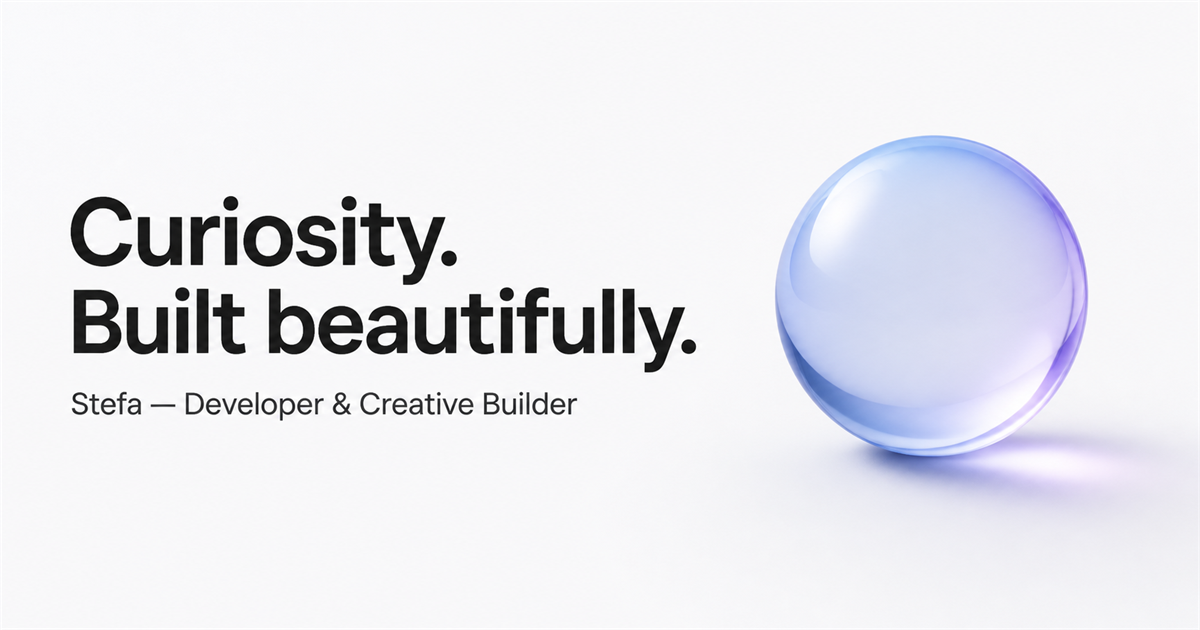
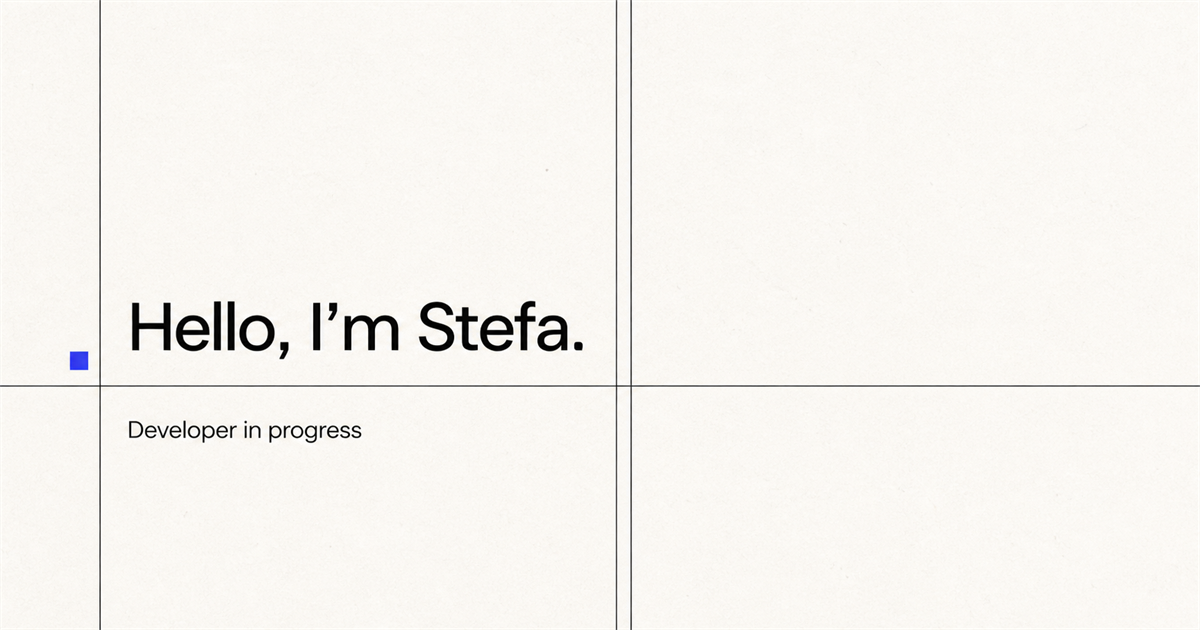
Make portfolio more personal and editorial

Changed region(s): [[0.0, 0.2111, 1.0, 0.8143], [0.0617, 0.3016, 0.4008, 0.4524]]

diff --git a/app/globals.css b/app/globals.css
@@ -1,38 +1,23 @@
 @import 'tailwindcss';
 
-:root { --black:#1d1d1f; --muted:#6e6e73; --blue:#0071e3; --surface:#f5f5f7; --white:#fff; }
+:root { --ink:#171717; --muted:#686868; --line:#d8d8d8; --paper:#f7f7f5; --accent:#174ea6; }
 * { box-sizing:border-box; }
 html { scroll-behavior:smooth; }
-body { margin:0; background:var(--white); color:var(--black); font-family:var(--font-geist-sans),-apple-system,BlinkMacSystemFont,"Segoe UI",sans-serif; -webkit-font-smoothing:antialiased; }
+body { margin:0; background:#fff; color:var(--ink); font-family:Arial,Helvetica,sans-serif; -webkit-font-smoothing:antialiased; }
 a { color:inherit; text-decoration:none; }
-.shell { width:min(1120px,calc(100% - 48px)); margin-inline:auto; }
-.nav { position:sticky; top:0; z-index:20; width:100%; height:52px; padding-inline:max(24px,calc((100% - 1120px)/2)); display:flex; align-items:center; justify-content:space-between; background:rgba(255,255,255,.78); border-bottom:1px solid rgba(0,0,0,.06); backdrop-filter:saturate(180%) blur(20px); }
-.wordmark { font-size:17px; font-weight:650; letter-spacing:-.025em; }
-.navLinks { display:flex; align-items:center; gap:30px; font-size:12px; color:#3a3a3c; }
-.navLinks a { transition:color .2s; }.navLinks a:hover { color:var(--blue); }
-.navCta { padding:8px 15px; border-radius:999px; background:var(--blue); color:white!important; font-weight:600; }
-.hero { min-height:820px; padding:112px 0 84px; text-align:center; position:relative; overflow:hidden; display:flex; flex-direction:column; align-items:center; }
-.eyebrow,.sectionLabel { font-size:12px; font-weight:650; letter-spacing:.02em; color:var(--blue); }
-.eyebrow { display:flex; align-items:center; gap:8px; padding:7px 12px; border-radius:999px; background:#eaf4ff; }
-.eyebrow span { width:6px; height:6px; border-radius:50%; background:#34c759; box-shadow:0 0 0 3px rgba(52,199,89,.16); }
-.hero h1 { position:relative; z-index:2; max-width:900px; margin:26px 0 24px; font-size:clamp(68px,8.3vw,108px); line-height:.94; letter-spacing:-.075em; font-weight:700; }
-.hero h1 em,.contact h2 em { font:inherit; background:linear-gradient(90deg,#0071e3 5%,#5e5ce6 48%,#bf5af2); -webkit-background-clip:text; background-clip:text; color:transparent; }
-.heroBottom { position:relative; z-index:2; display:flex; flex-direction:column; align-items:center; gap:28px; }
-.heroBottom p { max-width:630px; margin:0; font-size:21px; line-height:1.45; color:var(--muted); letter-spacing:-.018em; }
-.roundLink { display:inline-flex; align-items:center; gap:8px; padding:12px 20px; border-radius:999px; background:var(--blue); color:white; font-size:15px; font-weight:600; box-shadow:0 7px 20px rgba(0,113,227,.2); transition:transform .2s,box-shadow .2s; }
-.roundLink:hover { transform:translateY(-2px); box-shadow:0 10px 26px rgba(0,113,227,.28); }
-.orb { position:absolute; border-radius:50%; filter:blur(2px); pointer-events:none; }
-.orbOne { width:420px; height:420px; right:-120px; bottom:-150px; opacity:.45; background:radial-gradient(circle at 30% 25%,#fff 0,#8bc5ff 28%,#6c63ff 60%,#d54cff 100%); box-shadow:inset -45px -45px 90px rgba(30,30,80,.25),0 35px 90px rgba(72,80,255,.22); }
-.orbTwo { width:180px; height:180px; left:-70px; top:250px; opacity:.26; background:linear-gradient(145deg,#60efff,#0061ff); filter:blur(12px); }
-.about { background:var(--surface); width:100%; max-width:none; padding:128px max(24px,calc((100% - 1120px)/2)); }
-.sectionLabel { margin:0 0 24px; }.aboutGrid { display:grid; grid-template-columns:1.05fr .95fr; gap:100px; align-items:start; }
-.about h2,.sectionHead h2 { margin:0; font-size:clamp(44px,5vw,68px); line-height:1.04; letter-spacing:-.055em; font-weight:680; }
-.aboutCopy { max-width:500px; }.aboutCopy>p { margin:0 0 20px; color:var(--muted); font-size:18px; line-height:1.58; letter-spacing:-.016em; }
-.skills { display:flex; flex-wrap:wrap; gap:9px; margin-top:34px; }.skills span,.tags span { padding:8px 13px; border-radius:999px; background:rgba(255,255,255,.92); color:#515154; font-size:12px; font-weight:550; box-shadow:inset 0 0 0 1px rgba(0,0,0,.055); }
-.work { padding:132px 0; }.sectionHead { display:flex; justify-content:space-between; align-items:flex-end; margin-bottom:52px; }.sectionHead>p { max-width:360px; margin:0 0 5px; color:var(--muted); font-size:16px; line-height:1.55; letter-spacing:-.012em; }
-.projectGrid { display:grid; grid-template-columns:repeat(3,1fr); gap:18px; }.project { min-height:430px; padding:30px; border-radius:28px; display:flex; flex-direction:column; justify-content:space-between; overflow:hidden; background:linear-gradient(150deg,#f8f8fa,#ececf0); box-shadow:0 1px 2px rgba(0,0,0,.03),0 10px 35px rgba(0,0,0,.055); transition:transform .28s ease,box-shadow .28s ease; }
-.project:nth-child(2) { color:white; background:linear-gradient(150deg,#1f2024,#050506); }.project:nth-child(2) p { color:#b4b4ba; }.project:nth-child(2) .tags span { color:#eee; background:rgba(255,255,255,.11); box-shadow:inset 0 0 0 1px rgba(255,255,255,.08); }.project:nth-child(3) { background:linear-gradient(145deg,#dff2ff,#dcd6ff 58%,#f4d8f5); }
-.project:hover { transform:translateY(-6px) scale(1.008); box-shadow:0 18px 48px rgba(0,0,0,.1); }.projectTop { display:flex; justify-content:space-between; color:inherit; opacity:.62; font-size:12px; font-weight:600; }.arrow { font-size:21px; }.project h3 { margin:0 0 12px; font-size:29px; line-height:1.05; letter-spacing:-.045em; }.project p { margin:0 0 22px; color:var(--muted); line-height:1.5; font-size:15px; }.tags { display:flex; flex-wrap:wrap; gap:7px; }
-.contact { background:#000; color:#f5f5f7; }.contactInner { min-height:680px; padding:112px 0 38px; display:flex; flex-direction:column; }.sectionLabel.light { color:#2997ff; }.contact h2 { margin:14px 0 70px; max-width:950px; font-size:clamp(62px,8.5vw,108px); line-height:.94; letter-spacing:-.07em; font-weight:700; }.emailLink { display:flex; justify-content:space-between; padding:0 0 18px; border-bottom:1px solid #333336; font-size:clamp(23px,3vw,34px); color:#f5f5f7; transition:color .2s; }.emailLink:hover { color:#2997ff; }.contact footer { margin-top:auto; padding-top:72px; display:flex; justify-content:space-between; color:#86868b; font-size:12px; }
-@media (max-width:760px) { .shell{width:min(100% - 32px,1120px)} .nav{padding-inline:16px}.navLinks>a:not(.navCta){display:none}.hero{min-height:720px;padding:92px 0 64px}.hero h1{font-size:clamp(58px,18vw,82px)}.heroBottom p{font-size:18px}.orbOne{width:280px;height:280px;right:-130px}.orbTwo{width:130px;height:130px;left:-70px}.about{padding:90px 16px}.aboutGrid{grid-template-columns:1fr;gap:42px}.work{padding:92px 0}.sectionHead{display:block}.sectionHead>p{margin-top:22px}.projectGrid{grid-template-columns:1fr}.project{min-height:340px}.contactInner{min-height:600px}.contact h2{font-size:clamp(55px,16vw,80px)}.contact footer{gap:20px}}
-@media (prefers-reduced-motion:reduce){html{scroll-behavior:auto}*{transition:none!important}}
+.shell { width:min(1080px,calc(100% - 48px)); margin-inline:auto; }
+.nav { height:72px; display:flex; align-items:center; justify-content:space-between; border-bottom:1px solid var(--line); }
+.wordmark { font-size:16px; font-weight:700; letter-spacing:-.02em; }
+.navLinks { display:flex; gap:28px; font-size:13px; color:#444; }.navLinks a:hover { text-decoration:underline; text-underline-offset:4px; }
+.hero { min-height:680px; padding:118px 0 54px; display:flex; flex-direction:column; align-items:flex-start; }
+.kicker,.sectionHead>p { margin:0; color:var(--accent); font:600 12px/1.2 var(--font-geist-mono),monospace; text-transform:uppercase; letter-spacing:.08em; }
+.hero h1 { margin:20px 0 28px; font-size:clamp(60px,9vw,108px); line-height:.95; letter-spacing:-.075em; font-weight:600; }
+.intro { max-width:770px; margin:0; color:#3f3f3f; font-size:clamp(22px,3vw,34px); line-height:1.28; letter-spacing:-.035em; }
+.heroMeta { width:100%; margin-top:auto; padding-top:72px; display:flex; justify-content:space-between; align-items:end; font:13px/1.4 var(--font-geist-mono),monospace; color:var(--muted); }
+.heroMeta a { color:var(--ink); border-bottom:1px solid var(--ink); padding-bottom:3px; }
+.work { padding:112px 0 130px; border-top:1px solid var(--line); }.sectionHead { display:grid; grid-template-columns:180px 1fr; margin-bottom:64px; }.sectionHead h2 { margin:0; font-size:clamp(38px,5vw,58px); line-height:1; letter-spacing:-.055em; font-weight:600; }
+.projectList { border-top:1px solid var(--ink); }.project { display:grid; grid-template-columns:70px 1fr 240px; gap:38px; padding:34px 0 38px; border-bottom:1px solid var(--line); }.projectNumber { padding-top:6px; color:var(--muted); font:12px var(--font-geist-mono),monospace; }.project h3 { margin:0 0 10px; font-size:25px; letter-spacing:-.035em; font-weight:600; }.project p { max-width:520px; margin:0; color:var(--muted); font-size:15px; line-height:1.55; }.projectMeta { display:flex; justify-content:space-between; gap:16px; padding-top:6px; color:var(--muted); font:11px/1.4 var(--font-geist-mono),monospace; text-transform:uppercase; letter-spacing:.04em; }
+.about { background:var(--paper); border-block:1px solid var(--line); padding:124px 0; }.aboutGrid { display:grid; grid-template-columns:1fr 1fr; gap:80px; }.about .sectionHead { display:block; }.about .sectionHead>p { margin-bottom:28px; }.aboutCopy { padding-top:39px; }.aboutCopy>p { margin:0 0 24px; color:#353535; font-size:18px; line-height:1.55; letter-spacing:-.016em; }.aboutCopy dl { margin:54px 0 0; border-top:1px solid var(--line); }.aboutCopy dl div { display:grid; grid-template-columns:130px 1fr; padding:16px 0; border-bottom:1px solid var(--line); }.aboutCopy dt { color:var(--muted); font:11px var(--font-geist-mono),monospace; text-transform:uppercase; }.aboutCopy dd { margin:0; font-size:13px; }
+.contact { padding:132px 0 144px; }.contact h2 { max-width:880px; margin:28px 0 54px; font-size:clamp(42px,6vw,72px); line-height:1.06; letter-spacing:-.06em; font-weight:600; }.emailLink { display:inline-block; color:var(--accent); font-size:19px; border-bottom:1px solid currentColor; padding-bottom:4px; }.footer { padding:28px 0 34px; border-top:1px solid var(--line); display:flex; justify-content:space-between; color:var(--muted); font:11px var(--font-geist-mono),monospace; text-transform:uppercase; letter-spacing:.04em; }
+@media (max-width:760px) { .shell{width:min(100% - 32px,1080px)}.navLinks{gap:16px}.hero{min-height:610px;padding-top:90px}.hero h1{font-size:clamp(58px,18vw,78px)}.intro{font-size:23px}.heroMeta{display:block}.heroMeta span{display:block;margin-top:18px}.work{padding:86px 0 100px}.sectionHead{display:block;margin-bottom:44px}.sectionHead>p{margin-bottom:20px}.project{grid-template-columns:36px 1fr;gap:12px;padding:28px 0}.projectMeta{grid-column:2;justify-content:flex-start;margin-top:4px}.about{padding:90px 0}.aboutGrid{grid-template-columns:1fr;gap:0}.aboutCopy{padding-top:0}.contact{padding:96px 0 110px}.contact h2{font-size:45px}.footer{padding-bottom:28px}}
+@media (prefers-reduced-motion:reduce){html{scroll-behavior:auto}}

diff --git a/app/page.tsx b/app/page.tsx
@@ -1,39 +1,70 @@
 const projects = [
-  { number: '01', title: 'My first web project', description: 'A focused, useful web experience built while learning the foundations of modern development.', tags: ['Web', 'Design', 'JavaScript'] },
-  { number: '02', title: 'A helpful little tool', description: 'A simple idea turned into software—made to solve a real problem and sharpen my craft.', tags: ['Node.js', 'Problem solving'] },
-  { number: '03', title: 'What I build next', description: 'This space is reserved for the next experiment, collaboration, or ambitious idea.', tags: ['Coming soon'] },
+  {
+    year: '2026',
+    title: 'This website',
+    description: 'My first personal site. Built to learn the basics of layout, typography, responsive design, and publishing.',
+    tools: 'Next.js · CSS · Git',
+  },
+  {
+    year: 'Ongoing',
+    title: 'Small web experiments',
+    description: 'A collection of simple pages and scripts I use to understand JavaScript and Node.js one idea at a time.',
+    tools: 'JavaScript · Node.js',
+  },
+  {
+    year: 'Next',
+    title: 'A useful tool',
+    description: 'I’m looking for a small, real problem worth solving. This space will become that project.',
+    tools: 'Research in progress',
+  },
 ];
 
 export default function Home() {
   return (
-    <main>
+    <main id="top">
       <nav className="nav shell" aria-label="Main navigation">
-        <a className="wordmark" href="#top" aria-label="Stefa, home">Stefa</a>
-        <div className="navLinks"><a href="#about">About</a><a href="#work">Work</a><a className="navCta" href="#contact">Let&apos;s talk</a></div>
+        <a className="wordmark" href="#top">Stefa</a>
+        <div className="navLinks"><a href="#work">Work</a><a href="#about">About</a><a href="#contact">Contact</a></div>
       </nav>
-      <section className="hero shell" id="top">
-        <div className="eyebrow"><span /> Available to learn, build & collaborate</div>
-        <h1>Curiosity.<br /><em>Built beautifully.</em></h1>
-        <div className="heroBottom"><p>I&apos;m Stefa, an aspiring developer exploring the space where thoughtful design meets useful technology.</p><a className="roundLink" href="#work">View my work <span>↘</span></a></div>
-        <div className="orb orbOne" aria-hidden="true" /><div className="orb orbTwo" aria-hidden="true" />
+
+      <section className="hero shell">
+        <p className="kicker">Developer in progress</p>
+        <h1>Hello, I&apos;m Stefa.</h1>
+        <p className="intro">I&apos;m learning to build for the web. This is where I keep track of what I&apos;ve made, what I&apos;m figuring out, and what comes next.</p>
+        <div className="heroMeta"><a href="#work">See what I&apos;m working on ↓</a><span>Last updated August 2026</span></div>
       </section>
-      <section className="about shell" id="about">
-        <p className="sectionLabel">About</p>
-        <div className="aboutGrid"><h2>Learning in public.<br />Building with purpose.</h2><div className="aboutCopy">
-          <p>I&apos;m at the beginning of my development journey, which means I bring fresh energy, an open mind, and a willingness to figure things out.</p>
-          <p>Right now I&apos;m growing my skills in the tools that power the web—and looking for meaningful problems to solve along the way.</p>
-          <div className="skills" aria-label="Skills"><span>HTML & CSS</span><span>JavaScript</span><span>Node.js</span><span>Git & GitHub</span></div>
-        </div></div>
-      </section>
+
       <section className="work shell" id="work">
-        <div className="sectionHead"><div><p className="sectionLabel">Selected work</p><h2>Ideas, made tangible.</h2></div><p>A growing collection. Replace these cards with your real projects as you build them.</p></div>
-        <div className="projectGrid">{projects.map((project) => <article className="project" key={project.number}><div className="projectTop"><span>{project.number}</span><span className="arrow">↗</span></div><div><h3>{project.title}</h3><p>{project.description}</p><div className="tags">{project.tags.map((tag) => <span key={tag}>{tag}</span>)}</div></div></article>)}</div>
+        <header className="sectionHead"><p>01 / Work</p><h2>Things I&apos;m making</h2></header>
+        <div className="projectList">
+          {projects.map((project, index) => (
+            <article className="project" key={project.title}>
+              <span className="projectNumber">0{index + 1}</span>
+              <div><h3>{project.title}</h3><p>{project.description}</p></div>
+              <div className="projectMeta"><span>{project.tools}</span><span>{project.year}</span></div>
+            </article>
+          ))}
+        </div>
       </section>
-      <section className="contact" id="contact"><div className="shell contactInner">
-        <p className="sectionLabel light">Start a conversation</p><h2>Let&apos;s make<br /><em>something great.</em></h2>
-        <a className="emailLink" href="mailto:hello@example.com">hello@example.com <span>↗</span></a>
-        <footer><span>© 2026 Stefa</span><span>Built with curiosity and care.</span></footer>
-      </div></section>
+
+      <section className="about" id="about">
+        <div className="shell aboutGrid">
+          <header className="sectionHead"><p>02 / About</p><h2>Starting small.<br />Paying attention.</h2></header>
+          <div className="aboutCopy">
+            <p>I&apos;m early in my development journey. I don&apos;t know everything yet, and that&apos;s the point—I like taking something unfamiliar apart until it makes sense.</p>
+            <p>Right now I&apos;m focused on the web: learning how good interfaces are structured, how code becomes a working product, and how to make each project a little better than the last.</p>
+            <dl><div><dt>Learning</dt><dd>HTML, CSS, JavaScript, Node.js</dd></div><div><dt>Using</dt><dd>VS Code, Git, GitHub</dd></div><div><dt>Interested in</dt><dd>Useful software and thoughtful design</dd></div></dl>
+          </div>
+        </div>
+      </section>
+
+      <section className="contact shell" id="contact">
+        <p className="kicker">03 / Contact</p>
+        <h2>If you&apos;re building something interesting, I&apos;d like to hear about it.</h2>
+        <a className="emailLink" href="mailto:hello@example.com">hello@example.com ↗</a>
+      </section>
+
+      <footer className="footer shell"><span>© 2026 Stefa</span><a href="#top">Back to top ↑</a></footer>
     </main>
   );
 }

diff --git a/app/layout.tsx b/app/layout.tsx
@@ -18,13 +18,13 @@ export const metadata: Metadata = {
   metadataBase: new URL('https://stefa-developer-portfolio.stefan-cutler.chatgpt.site'),
   openGraph: {
     title: 'Stefa — Developer & Creative Builder',
-    description: 'Curiosity. Built beautifully.',
+    description: 'Developer in progress.',
     images: ['/og.png'],
   },
   twitter: {
     card: 'summary_large_image',
     title: 'Stefa — Developer & Creative Builder',
-    description: 'Curiosity. Built beautifully.',
+    description: 'Developer in progress.',
     images: ['/og.png'],
   },
 };
